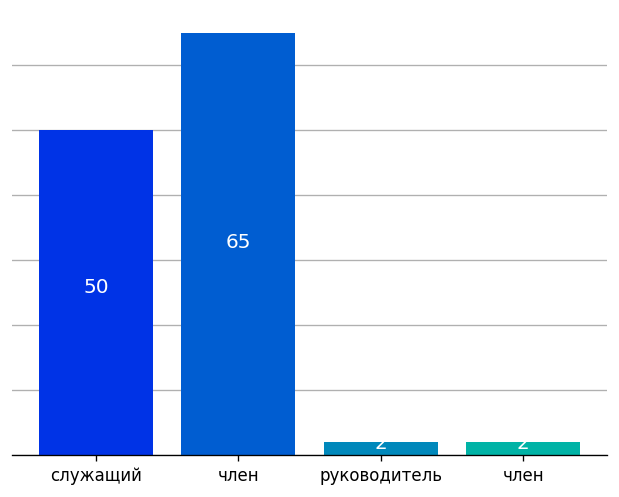
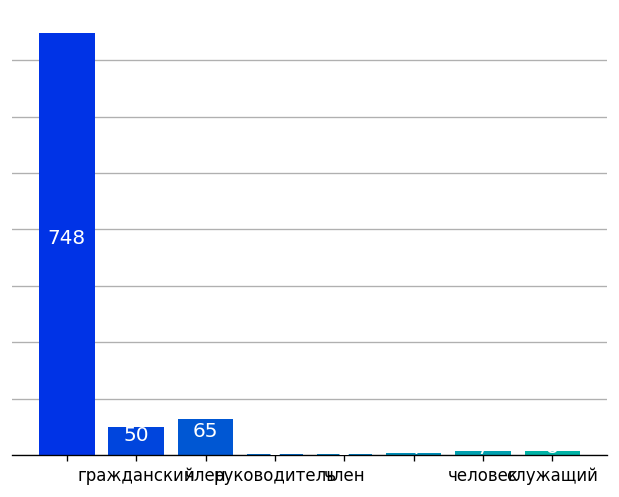
last

Changed region(s): [[0.0307, 0.0604, 0.9822, 0.996], [0.0307, 0.7847, 0.0614, 0.8149]]

diff --git a/myapp/views.py b/myapp/views.py
@@ -17,8 +17,6 @@ from .nlp import LanguageProcessor
 import datetime
 import os
 
-
-
 def add_text_and_pdf(request):
     pages = []
     if request.method == "POST" and request.FILES.get('file'):
@@ -31,7 +29,6 @@ def add_text_and_pdf(request):
 
         file_location = pdf_model_instance.pdf_file.path
         txt = process_doc_file(file_location)
-        # return redirect('complite')
 
         lp = LanguageProcessor()
         result = lp.process('\n'.join(txt))
@@ -44,8 +41,6 @@ def add_text_and_pdf(request):
         }
 
         result = {0: title_page, **result}
-
-        print(result)
         #мне стыдно за это
 
         for i in result.keys():
@@ -58,68 +53,48 @@ def add_text_and_pdf(request):
                                             , 'Название': header, 'path': result[i]['path']}, ).content.decode('utf-8')
             pages.append(html_content)   
 
-    # test_json = {
-    #     'data': {
-    #         'key1': 'asdas., dzxc',
-    #         'key2': 'asf.,asmfфывфывфывфывыфвфывфывфывфывыфв.',
-    #         'key3': 'lksdaflask',
-    #         'key4': 'ывжэда',
-    #         'key5': 'zxc,mas dfna,mфывпфриттьф ырпвфыодвлфывлф'
-    #     },
-    #     'Название': 'Аналитика',
-    #     'pages': [
-    #         {'title': 'Page 1', 'template': 'slides/page1.html'},
-    #         {'title': 'Page 2', 'template': 'slides/page2.html'},
-    #         {'title': 'Page 3', 'template': 'slides/page3.html'},
-    #         {'title': 'Page 4', 'template': 'slides/page4.html'}
-    #     ]
-    # }
-
-        # for page in test_json['pages']:
-
-
     return render(request, 'text_box.html', context={'pages': pages})    
 
-def pages (request):
-    test_json = {
-        'data': {
-            'key1': 'asdas., dzxc',
-            'key2': 'asf.,asmfфывфывфывфывыфвфывфывфывфывыфв.',
-            'key3': 'lksdaflask',
-            'key4': 'ывжэда',
-            'key5': 'zxc,mas dfna,mфывпфриттьф ырпвфыодвлфывлф'
-        },
-        'Название': 'Аналитика',
-        'pages': [
-            {'title': 'Page 1', 'template': 'slides/page1.html'},
-            {'title': 'Page 2', 'template': 'slides/page2.html'},
-            {'title': 'Page 3', 'template': 'slides/page3.html'},
-            {'title': 'Page 4', 'template': 'slides/page4.html'}
-        ]
-    }
-    pages =[]
-    for page in test_json['pages']:
-        html_content = render(request=request, template_name=page['template']
-                              , context={'data': test_json['data']
-                                         , 'Название': test_json['Название']}).content.decode('utf-8')
-        pages.append(html_content)   
-    # page_key = test_json['Название']  # Get the first key from the test_json dictionary
-    # if page_key == 'Аналитика':
-    #     html_template = 'slides/page2.html'
-    # elif page_key == 'Другое':
-    #     html_template = 'slides/page3.html'
-    # elif page_key == 'Третье':
-    #     html_template = 'slides/page4.html'
-    # else:
-    #     # Handle the case where the key is neither 'page1' nor 'page2'
-    #     return HttpResponseNotFound('Page not found')
+# def pages (request):
+#     test_json = {
+#         'data': {
+#             'key1': 'asdas., dzxc',
+#             'key2': 'asf.,asmfфывфывфывфывыфвфывфывфывфывыфв.',
+#             'key3': 'lksdaflask',
+#             'key4': 'ывжэда',
+#             'key5': 'zxc,mas dfna,mфывпфриттьф ырпвфыодвлфывлф'
+#         },
+#         'Название': 'Аналитика',
+#         'pages': [
+#             {'title': 'Page 1', 'template': 'slides/page1.html'},
+#             {'title': 'Page 2', 'template': 'slides/page2.html'},
+#             {'title': 'Page 3', 'template': 'slides/page3.html'},
+#             {'title': 'Page 4', 'template': 'slides/page4.html'}
+#         ]
+#     }
+#     pages =[]
+#     for page in test_json['pages']:
+#         html_content = render(request=request, template_name=page['template']
+#                               , context={'data': test_json['data']
+#                                          , 'Название': test_json['Название']}).content.decode('utf-8')
+#         pages.append(html_content)   
+#     # page_key = test_json['Название']  # Get the first key from the test_json dictionary
+#     # if page_key == 'Аналитика':
+#     #     html_template = 'slides/page2.html'
+#     # elif page_key == 'Другое':
+#     #     html_template = 'slides/page3.html'
+#     # elif page_key == 'Третье':
+#     #     html_template = 'slides/page4.html'
+#     # else:
+#     #     # Handle the case where the key is neither 'page1' nor 'page2'
+#     #     return HttpResponseNotFound('Page not found')
 
-    # html_content = render(request=request, template_name= html_template, context={'data':test_json['data'], 'Название':test_json['Название']})
+#     # html_content = render(request=request, template_name= html_template, context={'data':test_json['data'], 'Название':test_json['Название']})
     
-    return render(request, 'text_box.html', context={'pages': pages})    
-    # response = HttpResponse(pdf_buffer.getvalue(),content_type='application/pdf')
-    # response['Content-Disposition'] = 'attachment; filename="output.pdf"'
-    # return response
+#     return render(request, 'text_box.html', context={'pages': pages})    
+#     # response = HttpResponse(pdf_buffer.getvalue(),content_type='application/pdf')
+#     # response['Content-Disposition'] = 'attachment; filename="output.pdf"'
+#     # return response
 
 def complite(request):
     return render(request, 'complite.html')

diff --git a/myapp/nlp.py b/myapp/nlp.py
@@ -78,26 +78,30 @@ def extract_numeric_entities(text, morph, morph_analyzer):
 
 
 def process_entities(entities):
-    img_name = "graphics/img.png"
+    img_name = "myapp/graphics/img.png"
     percentages_ent = [e for e in entities if e.pct]
     obj_ent = [e for e in entities if not e.pct]
     if len(percentages_ent) / len(entities) > 0.5:
         data = []
+        labels = []
         for p in percentages_ent:
             try:
-                data += [int(p.number)]
+                data.append(int(p.number))  # Изменено на append
+                labels.append(p.normal_form)  # Изменено на append
             except:
                 print("convertation error, skipping this one")
-        labels = [p.normal_form for p in percentages_ent]
+        # labels = [p.normal_form for p in percentages_ent]
         preset_pie(data, labels, img_name)
     else:
         data = []
+        labels = []
         for p in obj_ent:
             try:
-                data += [int(p.number)]
+                data.append(int(p.number))  # Изменено на append
+                labels.append(p.normal_form)  # Изменено на append
             except:
                 print("convertation error, skipping this one")
-        labels = [p.normal_form for p in obj_ent]
+        # labels = [p.normal_form for p in obj_ent]
         preset_barplot(data, labels, img_name)
 
     return img_name

diff --git a/myproject/urls.py b/myproject/urls.py
@@ -26,7 +26,7 @@ urlpatterns = [
     # path('add_text/', views.add_text, name='add_text'),
     # path('add_pdf/', views.add_pdf, name='add_pdf'),
     path('complete/', views.complite, name='complite'),
-    path('page2/', views.pages, name='page2'),
+    # path('page2/', views.pages, name='page2'),
 ]   
 
 
